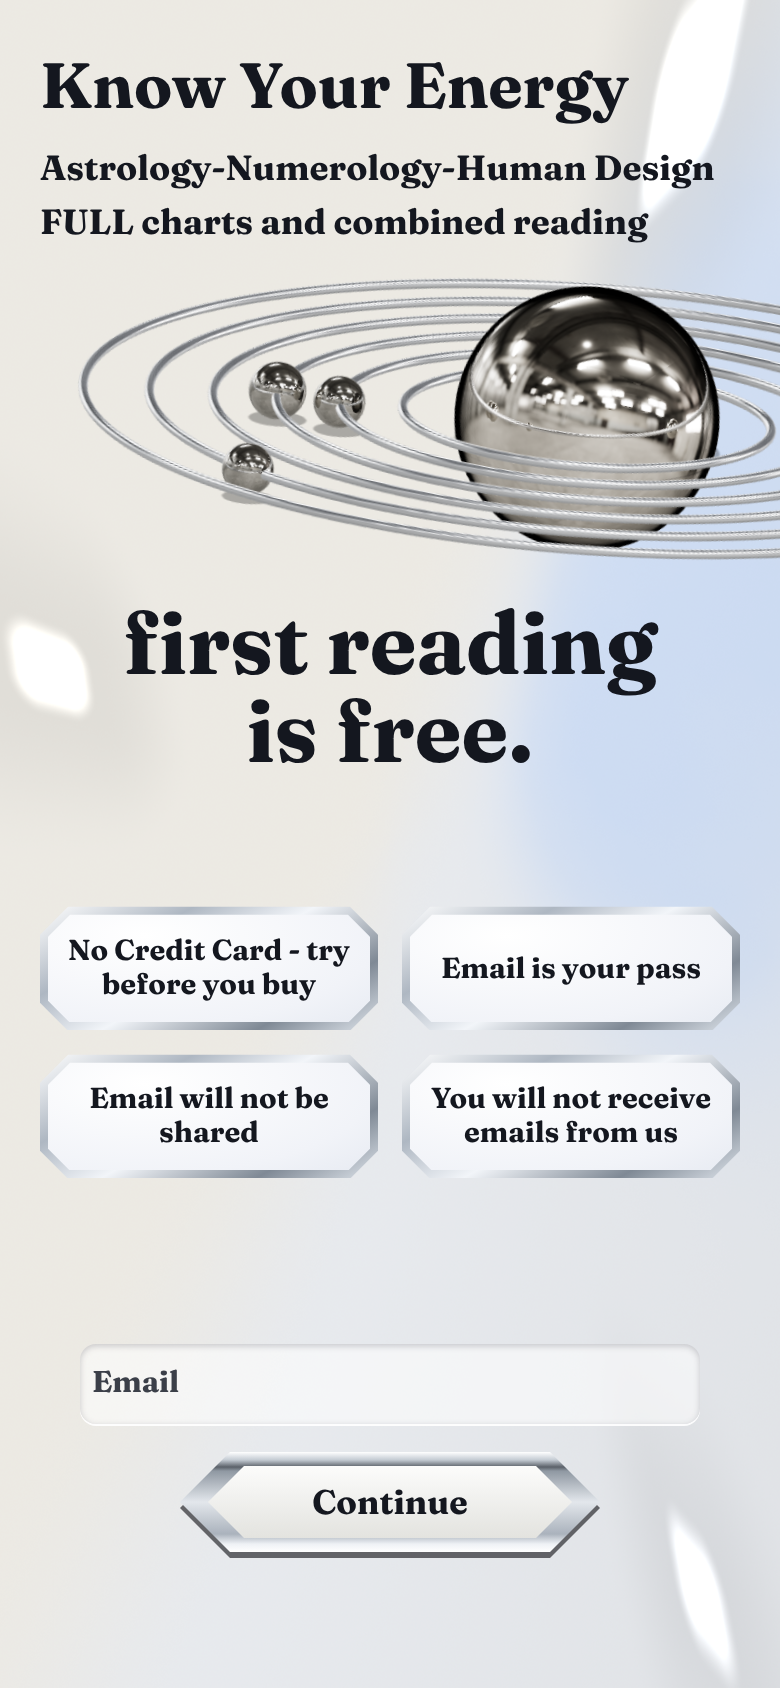
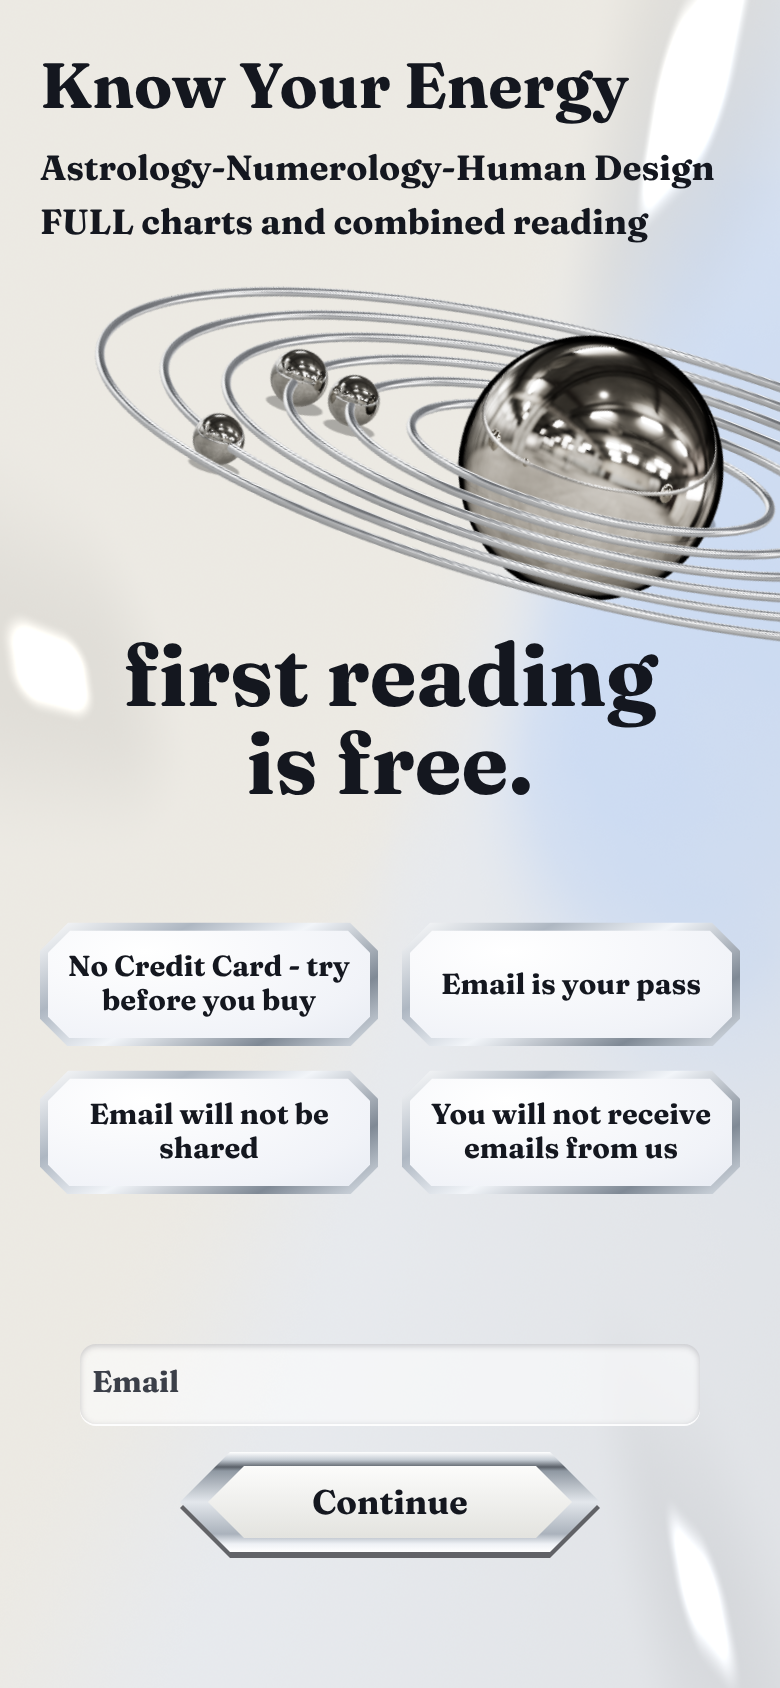
Solar system slanted again, left side up (22 degrees); opening screens A/B/C regenerated
Claude-Session: https://claude.ai/code/session_01DRAcaZvypgnSaCTMdJvvGx

diff --git a/moonstone/moonstone-look.css b/moonstone/moonstone-look.css
@@ -22,3 +22,6 @@ html.red .toggle-pill::after{background:radial-gradient(circle at 35% 30%,#fff 0
 html.red #hookStep{display:flex !important;flex-direction:column;min-height:calc(100svh - 22px)}
 html.red #hookStep .r-b22{margin-top:auto !important;margin-bottom:auto !important}
 html.red #hookStep .hero-email-wrap{margin-bottom:46px !important}
+/* solar system: left side slanted up, as it used to be */
+html.red .hero-illustration{transform:translateX(96px) translateY(34px) rotate(22deg) scale(1.55) !important}
+html.red #hookStep .r-free{padding-top:16px}
